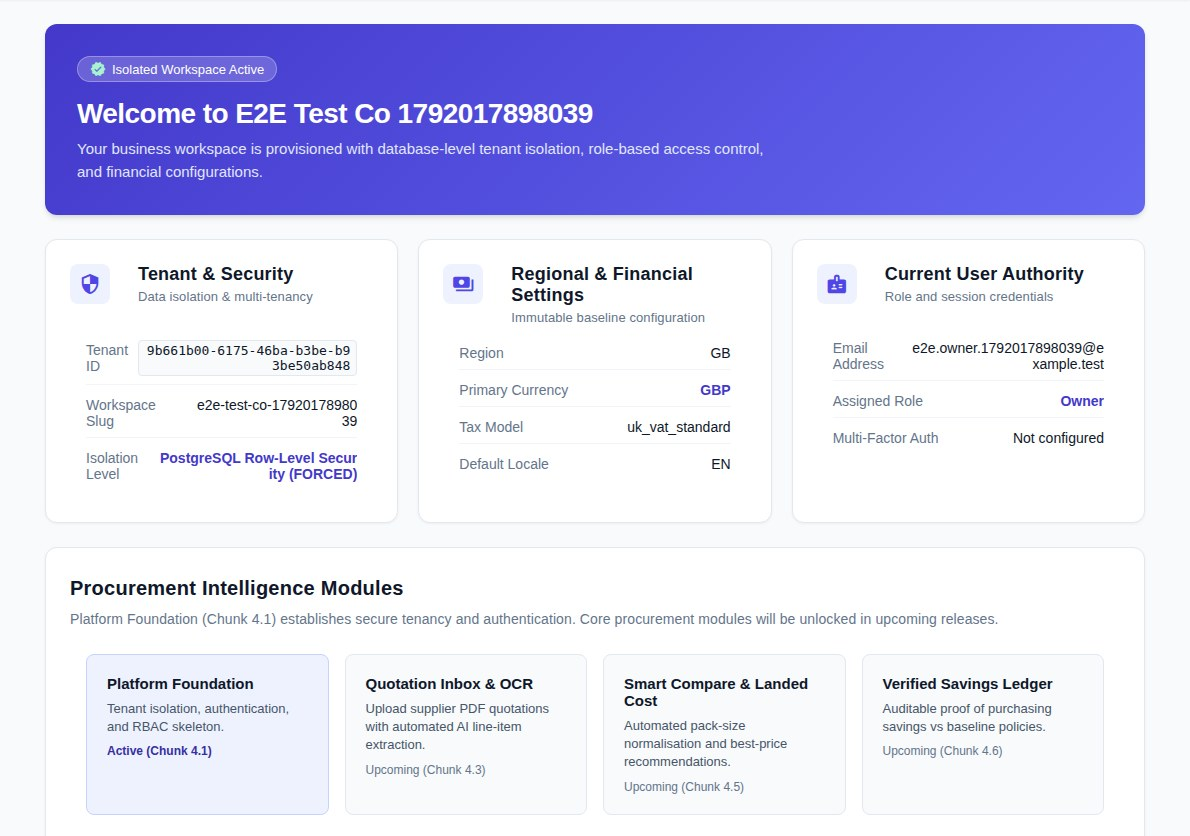
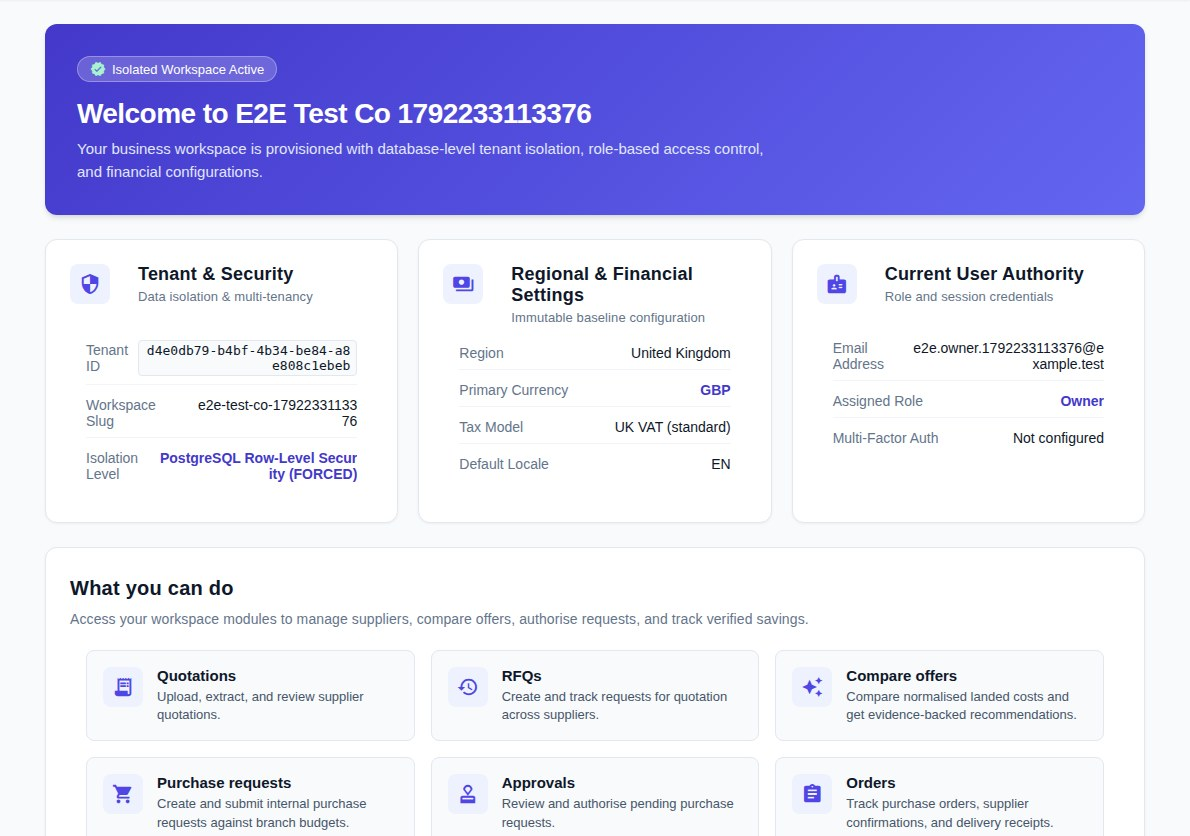
docs(user): refresh Home description and 02-dashboard screenshot for the module grid

diff --git a/docs/user/user-documentation.md b/docs/user/user-documentation.md
@@ -127,9 +127,9 @@ The final step of workspace creation: a summary card showing the workspace's pla
 | 2 | **Side navigation** | Provides module switching for authenticated users. It is shown separately below so page screenshots can focus on the work area. |
 | 3 | **Welcome banner** | Displays your workspace name and confirms your workspace is provisioned with database-level tenant isolation and role-based access control. |
 | 4 | **Tenant & Security card** | Shows your Tenant ID, workspace slug, and the isolation level (PostgreSQL Row-Level Security, FORCED). This is read-only and confirms your data is fully isolated. |
-| 5 | **Regional & Financial Settings card** | Displays your region (e.g. GB), primary currency (e.g. GBP), tax model (e.g. uk_vat_standard), and default locale. The primary currency is your workspace's **home currency**: it is chosen at sign-up and pre-selected in new orders, guardrails and budgets. An Owner can change it afterwards under **Home currency** in Organisation Settings (§22); the change is audited. The other values are immutable. |
+| 5 | **Regional & Financial Settings card** | Displays your region (e.g. United Kingdom), primary currency (e.g. GBP), tax model (e.g. UK VAT (standard)), shown by its readable name, and default locale. The primary currency is your workspace's **home currency**: it is chosen at sign-up and pre-selected in new orders, guardrails and budgets. An Owner can change it afterwards under **Home currency** in Organisation Settings (§22); the change is audited. The other values are immutable. |
 | 6 | **Current User Authority card** | Shows your email, assigned role (Owner, Buyer, etc.), and MFA status. |
-| 7 | **Procurement Intelligence Modules** | A roadmap card describing each module. **Note:** the "Active"/"Upcoming" labels on this card describe the original chunk plan and have not been refreshed since — nearly every module described as "Upcoming" (Quotation Inbox, Smart Compare, Savings Ledger, RFQ sourcing, Order Tracking, Accounting/POS integration, forecasting, supplier risk, the analyst) is fully built and in active use. Use the side navigation, not this card, to judge what's actually available. |
+| 7 | **What you can do** | A grid of links to the main modules — Quotations, RFQs, Compare offers, Purchase requests, Approvals, Orders, Savings, Procurement analyst, Products and Suppliers. Each card opens that module; cards are hidden for roles that cannot use the module (the same rules as the side navigation). |
 
 ### Authenticated app sidebar
 
